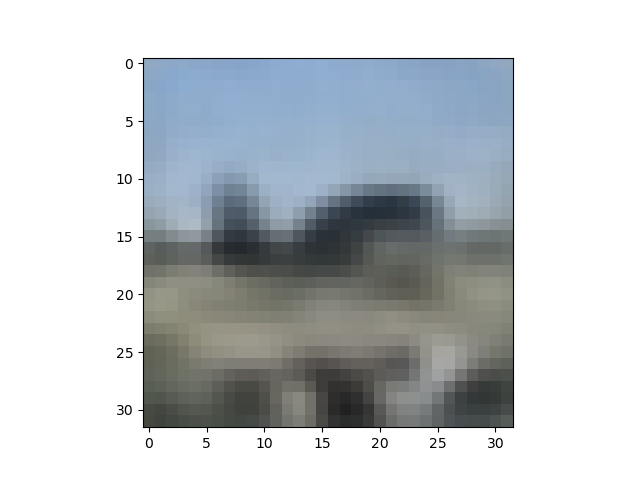
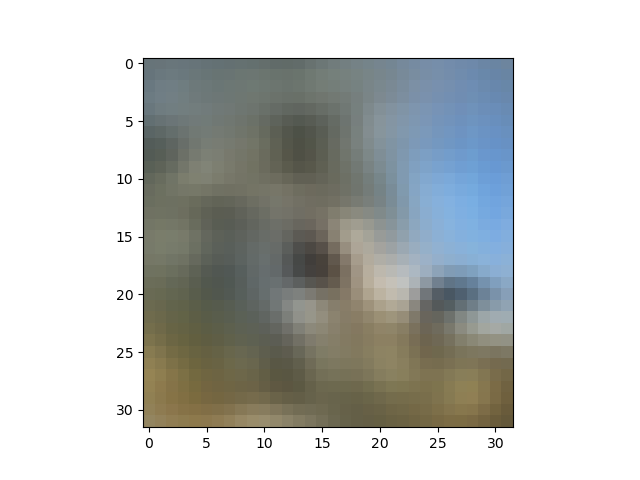
#3080: Style_Transfer:First try;generalization of PCA is astonishingly well

diff --git a/Style_Transfer/net.py b/Style_Transfer/net.py
@@ -1,0 +1,121 @@
+import torch
+import torch.nn.functional as F
+import torch.nn as nn
+import torch.nn.init as init
+from torch.utils.data import DataLoader
+from torchvision import datasets
+from matplotlib import pyplot as plt
+from tqdm import tqdm
+from typing import List
+from typing import Iterator
+from typing import Union
+from torchvision.transforms import ToTensor
+import numpy as np
+import sys
+import pickle as pkl
+#import ../ML/PCA net.py as PCA
+sys.path.append("/root/autodl-tmp/")
+from Headers.Nets import PCA
+from Headers.Utils import ImgP
+Params={
+    "modelpath":"/root/autodl-tmp/ML/PCA/model.pth",
+    "device":torch.device("cuda" if torch.cuda.is_available() else "cpu"),
+    "lr":1e-3,
+    "Input_imgpath":'/root/autodl-tmp/ML/Style_Transfer/source.jpg',
+    "Output_imgpath":'/root/autodl-tmp/ML/Style_Transfer/output.jpg',
+    'losspath':'/root/autodl-tmp/ML/Style_Transfer/loss.pkl'
+}
+class PretrainedPCA(nn.Module):
+    def __init__(self, path:str, input:torch.Tensor):
+        super(PretrainedPCA, self).__init__()
+        self.path = path
+        self.load_pca()
+        self.name_dict=dict(self.PCA.named_modules())
+        self.input=input.to(Params["device"])
+        self.input.requires_grad=True
+        #only perform gradient ascent on input
+        self.optimizer=torch.optim.Adam([self.input],lr=Params["lr"])
+        self.scheduler=torch.optim.lr_scheduler.StepLR(self.optimizer,step_size=300,gamma=0.9)
+        self.tcnt=self.train_cnt()
+    #def a train_cnt that returns a Iterator to record the train time
+    def train_cnt(self)->Iterator:
+        cnt=0
+        while True:
+            yield cnt
+            cnt+=1
+    def test_run(self)->torch.Tensor:
+        self.PCA.eval()
+        x=self.PCA(self.input)
+        loss=F.l1_loss(x,self.input)
+        return loss
+    def load_pca(self):
+        self.PCA=PCA.PCA(3,PCA.Params["hiddensize"])
+        self.PCA.to(Params["device"])
+        self.PCA.load_state_dict(torch.load(self.path,map_location=Params["device"]))
+    def forward(self,target_layer:int)->torch.Tensor:
+        s=self.input
+        self.layer=self.name_dict["Down_Net."+str(target_layer)]
+        for layer in self.PCA.Down_Net[:target_layer+1]:
+            s=layer(s)
+        #use negative loss to perform gradient ascent
+        return -torch.square(s).sum()/s.numel()
+    def train(self,target_layer:int, epochs:int=100)->List[float]:
+        self.PCA.train()
+        tbar=tqdm(range(epochs))
+        #print the source image path
+        print("Source Image:"+self.path)
+        #record the loss
+        loss_list=[]
+        #record the average loss
+        average_loss=0
+        total_loss=0
+        tbar.set_description_str(f"Fitting layer_{target_layer:d}")
+        for epoch in range(epochs):
+            self.optimizer.zero_grad()
+            loss=self.forward(target_layer)
+            loss.backward()
+            self.optimizer.step()
+            self.scheduler.step()
+            total_loss+=loss.item()
+            average_loss=total_loss/(epoch+1)
+            tbar.update(1)
+            tbar.set_description_str("Epoch: %d, Activation: %.6f"%(epoch,-average_loss))
+            #print("Epoch: %d, Activation: %.6f"%(epoch,-average_loss))
+            loss_list.append(-loss.item())
+        return loss_list
+def read_img(path:str)->torch.Tensor:
+    #use plt to read the img from path in [0-1]
+    img=plt.imread(path)
+    img=img.transpose((2,0,1))/255.
+    #print(img)
+    img=img[np.newaxis,:,:,:]
+    img=torch.from_numpy(img.copy()).float()
+    return img
+def save_img(img:torch.Tensor, path:str):
+    Saveimg=img.cpu().detach().numpy()
+    Saveimg=Saveimg.transpose((0,2,3,1))
+    Saveimg=Saveimg[0]
+    print(Saveimg.max())
+    print(Saveimg.min())
+    #print(Saveimg)
+    #Threshold=1.
+    #Saveimg[Saveimg>Threshold]=Threshold
+    #print(Saveimg)
+    Saveimg=Saveimg.clip(0,1)
+    plt.imshow(Saveimg)
+    plt.savefig(path)
+if __name__=="__main__":
+    layer=int(input("Layer:"))
+    img=read_img(Params["Input_imgpath"])
+    #img,_=ImgP.get_img("/root/autodl-tmp/data")
+    #save_img(img,Params["Input_imgpath"])
+    net=PretrainedPCA(Params["modelpath"],img)
+    #use test_run and print the loss
+    loss=net.test_run()
+    print("Predict Loss:",loss.item())
+    loss=net.train(layer,500)
+    print(net.layer)
+    pkl.dump(loss,open(Params["losspath"],"wb"))
+    save_img(net.input,Params["Output_imgpath"])
+
+    

diff --git a/PCA/net.py b/PCA/net.py
@@ -13,6 +13,7 @@ from typing import Union
 from torchvision.transforms import ToTensor
 import numpy as np
 import sys
+import PIL.Image as Image
 Params={
     "hiddensize":128,
     "device":torch.device("cuda:0" if torch.cuda.is_available() else "cpu"),
@@ -284,17 +285,24 @@ def train_classifier(classifier:Classifier_Model,save:bool=False)->None:
         torch.save(classifier.model,Params["classifierpath"])
     return
 #show a img in CIFAR10 and prediction from a NNET model
-def show_img(net:NNET,dataset:datasets.CIFAR10):
+def show_img(net:NNET,dataset:datasets.CIFAR10,imgpath:str=''):
     # show a random img in CIFAR10
     img,label=dataset[np.random.randint(0,len(dataset))]
+    #otherwise show the img in imgpath as a numpy array
+    if imgpath!='':
+        img=Image.open(imgpath)
+        img=ToTensor()(img)
+        print(img)
     Inputimg=img.unsqueeze(0)
     Inputimg=Inputimg.to(Params["device"])
+    #print(Inputimg)
     output=net.predict(Inputimg)
     output=output.squeeze(0)
     output=output.cpu()
     output=output.detach().numpy()
+    print(output)
     #output=(output+1)/2
-    print(np.mean(np.square(output-img.numpy())))
+    print(np.abs(output-img.numpy()).mean())
     output=np.transpose(output,(1,2,0))
     plt.imshow(output)
     plt.savefig(Params["imgpath"])

diff --git a/Dev/Play_with_model/CNN/net.py b/Dev/Play_with_model/CNN/net.py
@@ -1,0 +1,18 @@
+import torch
+import torch.nn.functional as F
+import torch.nn as nn
+import torch.nn.init as init
+from torch.utils.data import DataLoader
+from torchvision import datasets
+from matplotlib import pyplot as plt
+from tqdm import tqdm
+from typing import List
+from typing import Iterator
+from typing import Union
+from torchvision.transforms import ToTensor
+import numpy as np
+import sys
+import pickle as pkl
+
+
+

diff --git a/Style_Transfer/draw.py b/Style_Transfer/draw.py
@@ -1,0 +1,12 @@
+import pickle as pkl
+import matplotlib.pyplot as plt
+import numpy as np
+
+with open("./loss.pkl", "rb") as f:
+    loss_list = pkl.load(f)
+
+#draw the delta loss
+loss_list=np.array(loss_list)
+plt.plot(np.arange(len(loss_list)),loss_list, label="loss")
+plt.legend()
+plt.savefig("./loss.png")
